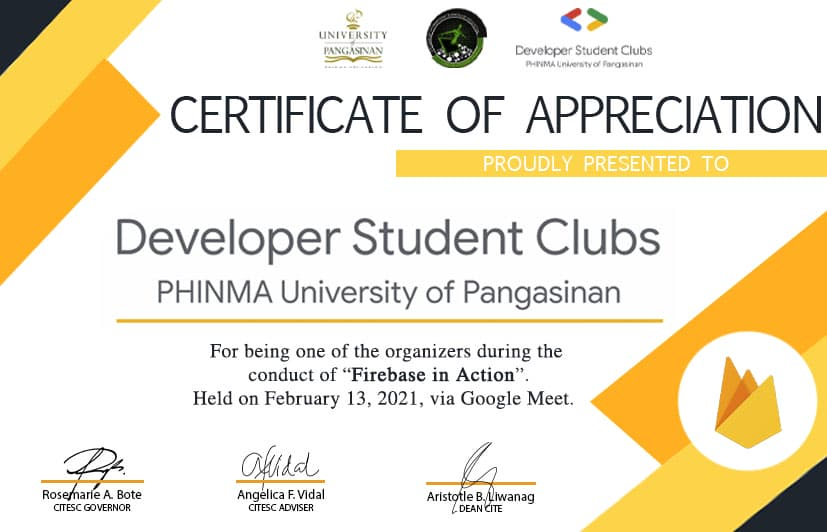
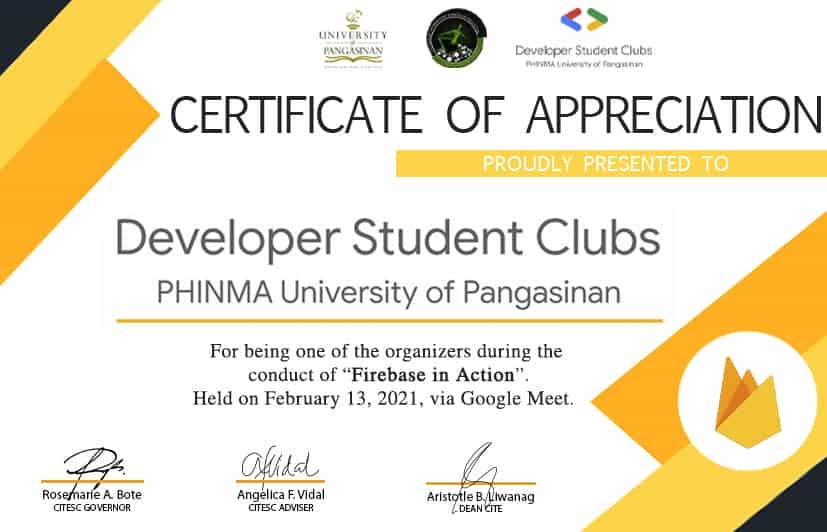
compressed images and converted pngs to jpgs

diff --git a/index.html b/index.html
@@ -8,7 +8,7 @@
     <link rel="stylesheet" href="https://unpkg.com/aos@next/dist/aos.css" />
     <link rel="stylesheet" href="public/style.css">
     <title>Jairus Galang | Portfolio </title>
-    <link rel="icon" href="public/img/white-logo-name.png" type="image/x-icon">
+    <link rel="icon" href="public/img/white-logo-name.jpg" loading="lazy" type="image/x-icon">
     <script src="https://kit.fontawesome.com/3eac9cefe9.js" crossorigin="anonymous"></script>
 </head>
 <!-- begin: navBar-Items[Web&Mobile] -->
@@ -22,7 +22,7 @@
                 <!-- Logo Image -->
                 <div class="flex p-1">
                     <div class="flex items-center space-x-8">
-                        <img src="public/img/logo-name.png" loading="lazy" alt="" class="h-10 w-10">
+                        <img src="public/img/logo-name.jpg" loading="lazy" alt="logo-name" class="h-10 w-10">
                     </div>
                     <!-- <span class="text-gray-600 font-mono text-2xl tracking-wider uppercase" id="#firstDiv">JG</span> -->
                 </div>
@@ -121,7 +121,8 @@
                         Hello, I am <b class="highlightened-traits">Jairus
                             Galang</b> and I am
                         from the Philippines.
-                        I am currently studying at PHINMA University of Pangasinan and taking BSIT Major in Web
+                        I graduated at PHINMA University of Pangasinan with a Bachelor's Degree in Information
+                        Technology and Major in Web
                         Development. I do love exploring technologies that has something to with Web Development.
                     </p>
                     <p class="about-me-content pt-5">
@@ -140,8 +141,8 @@
                 <div class="px-3" data-aos="fade-up-left" data-aos-offset="200" data-aos-easing="ease-in-sine"
                     data-aos-duration="600">
                     <div class="bg-white border p-3 shadow-md">
-                        <img src="public/img/08.png" class="h-42 w-auto rounded-full mx-auto object-covershadow-xl" loading="lazy"
-                            alt="DSC-GALANG-PIC">
+                        <img src="public/img/08.jpg" class="h-42 w-auto rounded-full mx-auto object-covershadow-xl"
+                            loading="lazy" alt="DSC-GALANG-PIC">
                     </div>
                 </div>
             </div>
@@ -153,24 +154,27 @@
                 <div class="px-3" data-aos="fade-up-right" data-aos-offset="200" data-aos-easing="ease-in-sine"
                     data-aos-duration="600">
                     <div class="bg-white p-3 shadow-md">
-                        <img src="public/img/picture3.jpg" class="h-42 w-auto rounded-3xl mx-auto" loading="lazy" alt="sunset_image">
+                        <img src="public/img/sample_code_flutter.jpg" class="h-42 w-auto rounded-3xl mx-auto"
+                            loading="lazy" alt="sunset_image">
                     </div>
                 </div>
                 <div data-aos="fade-up-left" data-aos-offset="200" data-aos-easing="ease-in-sine"
                     data-aos-duration="600">
-                    <p class="about-me-photography">
-                        I also like <b class="highlightened-traits">Photography</b>. Aside from coding, taking pictures
-                        and mostly nature is what I really like to do.
+                    <p class="about-me-coding">
+                        I also like <b class="highlightened-traits">Mobile Development</b>. Aside from Web Development,
+                        I got interested in Flutter lately.
                     </p>
-                    <p class="about-me-photography pt-5">
-                        By trying photography, I am also trying to learn Photoshop from time to time to edit the
-                        pictures that
-                        I took. I am genuinely doing my best to become better
-                        at editing pictures since I really find it enjoying.
+                    <p class="about-me-coding pt-5">
+                        By trying Mobile Development, I am also trying to learn both Front-end and Back-end of Flutter
+                        from time to time in order for me to learn on
+                        how can I efficiently write a code in Flutter using its Dart Language.
+                        With my current interest in Flutter, I am trying my best every single day to learn more about
+                        it!
                     </p>
-                    <p class="about-me-photography pt-5">
-                        Doing other things aside from <b class="highlightened-traits">coding</b> is one of my ways to
-                        express myself.
+                    <p class="about-me-coding pt-5">
+                        Doing other things aside from <b class="highlightened-traits">Web Development</b>. Flutter is
+                        one of my ways to
+                        learn more about cross-platform development.
                     </p>
                 </div>
             </div>
@@ -189,8 +193,9 @@
                 class="max-w-8xl px-8 p-3 md:justify-between mx-auto grid md:grid-cols-2 xl:grid-cols-3 gap-y-16 md:gap-16">
                 <div class="bg-white rounded shadow-md" data-aos="fade-up-right" data-aos-offset="200"
                     data-aos-easing="ease-in-sine" data-aos-duration="600">
-                    <img src="public/img/CRRWeb-MockUp.png"
-                        class="md:h-auto h-43 p-3 w-full rounded-3xl mx-auto md:object-fit" loading="lazy" alt="CRR-Web">
+                    <img src="public/img/CRRWeb-MockUp.jpg"
+                        class="md:h-auto h-43 p-3 w-full rounded-3xl mx-auto md:object-fit" loading="lazy"
+                        alt="CRR-Web">
                     <div>
                         <p class="title-project">CITE Research Repository -
                             Web
@@ -222,8 +227,9 @@
                 </div>
                 <div class="bg-white rounded shadow-md" data-aos="fade-up" data-aos-offset="200"
                     data-aos-easing="ease-in-sine" data-aos-duration="600">
-                    <img src="public/img/CRRMobile.png"
-                        class="md:h-auto h-43 p-3 w-full rounded-3xl mx-auto md:object-fit" loading="lazy" alt="CRR-Mobile">
+                    <img src="public/img/CRRMobile.jpg"
+                        class="md:h-auto h-43 p-3 w-full rounded-3xl mx-auto md:object-fit" loading="lazy"
+                        alt="CRR-Mobile">
                     <div>
                         <p class="title-project">CITE Research Repository -
                             Mobile
@@ -255,8 +261,9 @@
                 </div>
                 <div class="bg-white rounded shadow-md" data-aos="fade-up-left" data-aos-offset="200"
                     data-aos-easing="ease-in-sine" data-aos-duration="600">
-                    <img src="public/img/NFT-Museum-Mockup.png"
-                        class="md:h-auto h-43 p-3 w-full rounded-3xl mx-auto md:object-fit" loading="lazy" alt="NFT-Museum-Mockup">
+                    <img src="public/img/NFT-Museum-Mockup.jpg"
+                        class="md:h-auto h-43 p-3 w-full rounded-3xl mx-auto md:object-fit" loading="lazy"
+                        alt="NFT-Museum-Mockup">
                     <div class="pb-4">
                         <p class="title-project">NFT Museum: NFT Marketplace
                         </p>
@@ -270,8 +277,8 @@
                 </div>
                 <div class="bg-white rounded shadow-md" data-aos="fade-up-right" data-aos-offset="200"
                     data-aos-easing="ease-in-sine" data-aos-duration="600">
-                    <img src="public/img/MenTalk - Mockup.png" loading="lazy" class="h-auto p-3 w-full rounded-3xl mx-auto "
-                        alt="MenTalkDesign">
+                    <img src="public/img/MenTalk - Mockup.jpg" loading="lazy"
+                        class="h-auto p-3 w-full rounded-3xl mx-auto " alt="MenTalkDesign">
                     <div class="pb-4">
                         <p class="title-project">MenTalk - Mental Talk Support App
                         </p>
@@ -285,7 +292,7 @@
                 </div>
                 <div class="bg-white rounded shadow-md" data-aos="fade-up" data-aos-offset="200"
                     data-aos-easing="ease-in-sine" data-aos-duration="600">
-                    <img src="public/img/MouleWalletCryptoWallet.png" loading="lazy"
+                    <img src="public/img/MouleWalletCryptoWallet.jpg" loading="lazy"
                         class="md:h-auto h-43 p-3 w-full rounded-3xl mx-auto md:object-fit" alt="MouleWallet-Mockup">
                     <div class="pb-4">
                         <p class="title-project">MouleWallet: CryptoWallet
@@ -300,7 +307,7 @@
                 </div>
                 <div class="bg-white rounded shadow-md" data-aos="fade-up" data-aos-offset="200"
                     data-aos-easing="ease-in-sine" data-aos-duration="600">
-                    <img src="public/img/EncryptoMail-Landing-page.png" loading="lazy"
+                    <img src="public/img/EncryptoMail-Landing-page.jpg" loading="lazy"
                         class="md:h-auto h-43 p-3 w-full rounded-3xl mx-auto md:object-fit"
                         alt="EncryptoMail-LandingPage">
                     <div class="pb-4">
@@ -316,7 +323,7 @@
                 </div>
                 <div class="bg-white rounded shadow-md" data-aos="fade-up" data-aos-offset="200"
                     data-aos-easing="ease-in-sine" data-aos-duration="600">
-                    <img src="public/img/RelayCloud_UIUX.png" loading="lazy"
+                    <img src="public/img/RelayCloud_UIUX.jpg" loading="lazy"
                         class="md:h-auto h-43 p-3 w-full rounded-3xl mx-auto md:object-fit"
                         alt="EncryptoMail-LandingPage">
                     <div class="pb-4">
@@ -334,12 +341,11 @@
         </div>
         <!-- end: projectContent -->
         <!-- begin: workExperience -->
-        <div class="h-auto bg-gray-100 text-center md:py-32 py-20" id="work-experience">
-            <div class="flex" data-aos="fade-zoom-in" data-aos-offset="200" data-aos-easing="ease-in-sine"
-                data-aos-duration="600">
+        <div class="h-auto bg-gray-100 text-center" id="work-experience">
+            <div class="flex md:py-20 py-20" data-aos="fade-zoom-in" data-aos-offset="200"
+                data-aos-easing="ease-in-sine" data-aos-duration="600">
                 <p class="category-titles">
-                    Experience
-                </p>
+                    Experience</p>
             </div>
             <div
                 class="max-w-screen-2xl mx-auto px-5 md:px-4 md:py-2 md:justify-between mt-32 grid xl:grid-cols-3 md:grid-cols-2 gap-y-16 md:gap-16">
@@ -458,8 +464,8 @@
                 class="max-w-full mx-auto md:px-8 md:py-2 p-3 md:justify-between grid xl:grid-cols-4 md:grid-cols-2 gap-y-16 md:gap-16">
                 <div class="div-layout-property" data-aos="fade-up-right" data-aos-offset="200"
                     data-aos-easing="ease-in-sine" data-aos-duration="600">
-                    <a href="https://jairusgalang.github.io/public/Certificates/BagoSphere_Galang.png" target="_blank">
-                        <img src="public/Certificates/BagoSphere_Galang.png" class="image-property" loading="lazy"
+                    <a href="https://jairusgalang.github.io/public/Certificates/BagoSphere_Galang.jpg" target="_blank">
+                        <img src="public/Certificates/BagoSphere_Galang.jpg" class="image-property" loading="lazy"
                             alt="BagoSphere_Galang">
                     </a>
                     <p class="text-certificiate-component">
@@ -468,9 +474,9 @@
                 </div>
                 <div class="div-layout-property" data-aos="fade-up" data-aos-offset="200" data-aos-easing="ease-in-sine"
                     data-aos-duration="600">
-                    <a href="https://jairusgalang.github.io/public/Certificates/Internship-GalangJairus.png"
+                    <a href="https://jairusgalang.github.io/public/Certificates/Internship-GalangJairus.jpg"
                         target="_blank">
-                        <img src="public/Certificates/Internship-GalangJairus.png" class="image-property" loading="lazy"
+                        <img src="public/Certificates/Internship-GalangJairus.jpg" class="image-property" loading="lazy"
                             alt="Internship-GalangJairus">
                     </a>
                     <p class="text-certificiate-component">
@@ -497,7 +503,7 @@
                 </div>
                 <div class="div-layout-property" data-aos="fade-up-right" data-aos-offset="200"
                     data-aos-easing="ease-in-sine" data-aos-duration="600">
-                    <img src="public/Certificates/DSCUPang.png" class="image-property" loading="lazy"
+                    <img src="public/Certificates/DSCUPang.jpg" class="image-property" loading="lazy"
                         alt="DSCUpang-Badges">
                     <p class="text-certificiate-component">
                         The Badges that I earned after attending webinars from other DSC Chapters and after
@@ -507,14 +513,14 @@
                 </div>
                 <div class="div-layout-property" data-aos="fade-up" data-aos-offset="200" data-aos-easing="ease-in-sine"
                     data-aos-duration="600">
-                    <img src="public/Certificates/GDGPH2020Certificate-1.png" loading="lazy" class="image-property"
+                    <img src="public/Certificates/GDGPH2020Certificate-1.jpg" loading="lazy" class="image-property"
                         alt="GDGPH-Webinar">
                     <p class="text-certificiate-component">
                         Awarded by attending GDG Philippines Devfest and by participating in their webinars.</p>
                 </div>
                 <div class="div-layout-property" data-aos="fade-up" data-aos-offset="200" data-aos-easing="ease-in-sine"
                     data-aos-duration="600">
-                    <img src="public/Certificates/GDSC-CORE-TEAM-MEMBER.png" loading="lazy" class="image-property"
+                    <img src="public/Certificates/GDSC-CORE-TEAM-MEMBER.jpg" loading="lazy" class="image-property"
                         alt="GDSC-CoreMember-Cert">
                     <p class="text-certificiate-component">
                         The certificate was awarded to us as a recognition of being a member of the Core Team in
@@ -527,7 +533,7 @@
                 </div>
                 <div class="div-layout-property" data-aos="fade-up-left" data-aos-offset="200"
                     data-aos-easing="ease-in-sine" data-aos-duration="600">
-                    <img src="public/Certificates/Intro-to-Dsc_Galang.png" class="image-property" loading="lazy"
+                    <img src="public/Certificates/Intro-to-Dsc_Galang.jpg" class="image-property" loading="lazy"
                         alt="Intro-to-Dsc-Webinar">
                     <p class="text-certificiate-component">
                         The certificate was awarded after attending the webinar, together with our DSC Lead who
@@ -549,7 +555,7 @@
                     <img src="public/Certificates/Intro-to-Photography.jpg" class="image-property" loading="lazy"
                         alt="Photo-Video-Webinar">
                     <p class="text-certificiate-component">
-                        Awarded after attending and participating the webinar for Introduction to Photography
+                        Awarded after attending and participating the webinar for Introduction to coding
                         and
                         Videography of one of our Alumni in our Department.</p>
                 </div>
@@ -566,7 +572,7 @@
                 </div>
                 <div class="div-layout-property" data-aos="fade-up-left" data-aos-offset="200"
                     data-aos-easing="ease-in-sine" data-aos-duration="600">
-                    <img src="public/Certificates/PAW2020_Galang.png" class="image-property" loading="lazy"
+                    <img src="public/Certificates/PAW2020_Galang.jpg" class="image-property" loading="lazy"
                         alt="PAW-Webinar">
                     <p class="text-certificiate-component">
                         The certificate was awarded after participating in the Philippine Android Week for three

diff --git a/src/style.css b/src/style.css
@@ -23,7 +23,7 @@ html {
 .about-me-content {
   @apply text-justify p-3 sm:mx-auto text-sm md:text-base font-poppins md:pt-8 text-gray-500;
 }
-.about-me-photography {
+.about-me-coding {
   @apply text-justify p-3 text-sm md:text-base font-poppins md:pt-8 text-gray-500;
 }
 .highlightened-traits {
